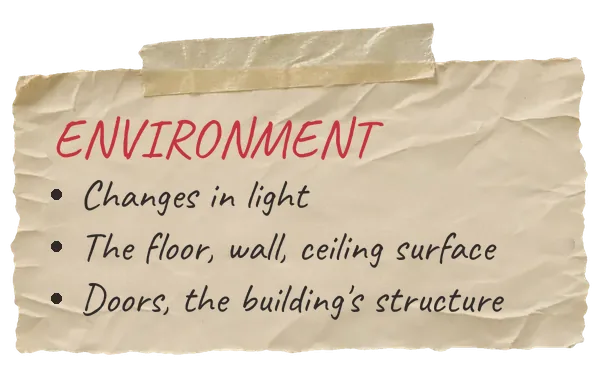
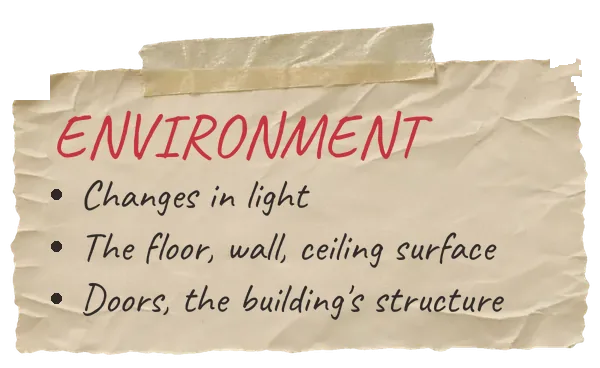
fix: 付箋の読めない時の文字表示・定義語の検査・見出しと紙の縁の手直し (#346)

diff --git a/src/components/ReportPanel.tsx b/src/components/ReportPanel.tsx
@@ -1,4 +1,4 @@
-import { RefObject, useEffect, useRef } from 'react'
+import { RefObject, useEffect, useRef, useState } from 'react'
 import { AnomalyCategory } from '../types/game'
 import { cx } from '../utils/cx'
 import { currentLanguage, type Language } from '../utils/language'
@@ -50,6 +50,44 @@ export const ReportButton = ({
     </div>
   </div>
 )
+
+/**
+ * The sticky note: a picture (#346). If the picture cannot be read (offline, 404) the same words are shown as plain
+ * visible text on a paper-coloured box, never a broken-image icon. The words for assistive technology are the sr-only
+ * span either way.
+ */
+const NoteImage = ({
+  note,
+  category,
+}: {
+  note: ReturnType<typeof reportNote>
+  category: AnomalyCategory
+}) => {
+  const [failed, setFailed] = useState(false)
+  return (
+    <span className="cat-note">
+      {failed ? (
+        <span className="cat-note-text" aria-hidden="true">
+          {note.lines.map(line => (
+            <span key={line}>{line}</span>
+          ))}
+        </span>
+      ) : (
+        <img
+          src={note.src}
+          width={note.width}
+          height={note.height}
+          alt=""
+          draggable={false}
+          onError={() => setFailed(true)}
+        />
+      )}
+      <span className="cat-sr-only" id={`catHint-${category}`}>
+        {note.text}
+      </span>
+    </span>
+  )
+}
 
 interface ReportDialogProps {
   /** The language of the notes (default: the browser's, decided once at start; the keys are always English). */
@@ -136,18 +174,7 @@ export const ReportDialog = ({
                   {category.toUpperCase()}
                 </button>
                 {/* The sticky note is a picture (#346); its words are read from the sr-only text. */}
-                <span className="cat-note">
-                  <img
-                    src={note.src}
-                    width={note.width}
-                    height={note.height}
-                    alt=""
-                    draggable={false}
-                  />
-                  <span className="cat-sr-only" id={`catHint-${category}`}>
-                    {note.text}
-                  </span>
-                </span>
+                <NoteImage note={note} category={category} />
               </div>
             )
           })}

diff --git a/src/components/ReportPanel.test.tsx b/src/components/ReportPanel.test.tsx
@@ -148,7 +148,7 @@ describe('ReportDialog', () => {
       Object: '物が出る、消える。物が変わる。床や壁、天井の物も。',
       Environment: '光の変化。床、壁、天井の面。扉や建物のつくり。',
       Person:
-        '人、人影、体の一部。人の痕跡。人の形（人形、絵、影）。動物は含まない。',
+        '人、人影、体の一部。人の痕跡。人の形(人形、絵、影)。動物は含まない。',
       Surreal: 'ありえないこと。映るはずのものが映らない。',
     }
     const CASES = [
@@ -183,6 +183,28 @@ describe('ReportDialog', () => {
         }
       )
     })
+
+    it.each(['ja', 'en'] as const)(
+      'when the picture cannot be read (%s) the same words show as visible text, no broken image',
+      language => {
+        const { dialog } = setupDialog(language)
+        const img = dialog.querySelector('img') as HTMLImageElement
+        const box = img.closest('.cat-note') as HTMLElement
+        fireEvent.error(img)
+        expect(box.querySelector('img')).toBeNull()
+        const text = box.querySelector('.cat-note-text') as HTMLElement
+        expect(text).not.toBeNull()
+        expect(text.textContent).toContain(
+          language === 'ja'
+            ? '映像そのものが乱れる'
+            : 'The whole picture glitches'
+        )
+        // the sr-only words stay, and the key still points at them
+        expect(
+          document.getElementById('catHint-Camera')?.textContent
+        ).toBeTruthy()
+      }
+    )
 
     it('follows the browser language by default and keeps the keys in English', () => {
       const lang = vi.spyOn(window.navigator, 'languages', 'get')

diff --git a/src/data/reportNotes.test.ts b/src/data/reportNotes.test.ts
@@ -86,6 +86,22 @@ describe('report notes table (#346)', () => {
     }
   })
 
+  it('keeps the words that the category definitions of prompts/README.md hinge on (both languages)', () => {
+    const words = (id: string, l: (typeof LANGS)[number]) => {
+      const n = REPORT_NOTE_TABLE.notes.find(x => x.id === id)
+      return n ? n[l].lines.join('\n') : ''
+    }
+    // person: animals are not people; object / environment: floor, wall, ceiling; camera: a surface across the view
+    expect(words('Person', 'ja')).toContain('動物は含まない')
+    expect(words('Person', 'en')).toContain('Not animals')
+    expect(words('Object', 'ja')).toContain('床や壁、天井')
+    expect(words('Environment', 'ja')).toContain('床、壁、天井')
+    expect(words('Object', 'en')).toMatch(/floor, wall, ceiling/i)
+    expect(words('Environment', 'en')).toMatch(/floor, wall, ceiling/i)
+    expect(words('Camera', 'ja')).toContain('横切る')
+    expect(words('Camera', 'en')).toContain('across the view')
+  })
+
   it('the notes are not preloaded: index.html names none of them (they load when the dialog opens)', () => {
     expect(readFileSync('index.html', 'utf8')).not.toContain('report-notes')
   })

diff --git a/src/styles/retro.css b/src/styles/retro.css
@@ -1357,6 +1357,26 @@
   height: auto;
 }
 
+/* the picture could not be read: the same words, plain, on a paper-coloured box */
+.cat-note-text {
+  display: block;
+  padding: 8px 8px 6px;
+  font-family: 'NoteYomogi', 'Caveat', 'Segoe Print', cursive;
+  font-size: 0.8rem;
+  line-height: 1.25;
+  color: var(--ink);
+  background: #e6d7a3;
+  border-radius: 1px 2px 2px 1px;
+}
+
+.cat-note-text > span {
+  display: block;
+}
+
+.cat-note-text > span::before {
+  content: '\2022\00a0';
+}
+
 .cat-sr-only {
   position: absolute;
   width: 1px;

diff --git a/src/data/reportNotes.ts b/src/data/reportNotes.ts
@@ -26,6 +26,8 @@ export interface ReportNote {
   height: number
   /** The words, read aloud (sr-only, `aria-describedby` of the key); the picture itself has `alt=""`. */
   text: string
+  /** The bullet lines (shown as plain text if the picture cannot be read). */
+  lines: string[]
 }
 
 const sentence = (lines: string[], language: Language): string =>
@@ -43,6 +45,7 @@ export const reportNote = (
     width: d.width,
     height: d.height,
     text: sentence(d.lines, language),
+    lines: d.lines,
   }
 }
 

diff --git a/scripts/report-notes.py b/scripts/report-notes.py
@@ -53,7 +53,7 @@ def paper_without_ink(name):
     ink = ((lum < 125) | red) & (alpha > 200)
     mask = Image.fromarray((ink * 255).astype(np.uint8)).filter(ImageFilter.MaxFilter(9))
     ink = np.asarray(mask) > 0
-    clean = (~ink).astype(np.float32)
+    clean = (~ink).astype(np.float32) * (alpha / 255.0)  # transparent pixels carry no colour: they must not darken the estimate
     out = np.empty_like(rgb)
     for c in range(3):
         num = gaussian_filter(rgb[..., c] * clean, 9)
@@ -65,6 +65,13 @@ def paper_without_ink(name):
     grain = rng.normal(0, 2.2, size=lum.shape).astype(np.float32)
     for c in range(3):
         out[..., c] = np.where(ink, out[..., c] + grain, out[..., c])
+    # dark specks left on the torn edge at the top corners of some title notes: made transparent (corners only)
+    corner = np.zeros(lum.shape, bool)
+    corner[45:100, :50] = True
+    corner[45:100, 550:] = True
+    speck = corner & (lum < 185) & (alpha > 0)
+    speck = np.asarray(Image.fromarray((speck * 255).astype(np.uint8)).filter(ImageFilter.MaxFilter(5))) > 0
+    alpha = np.where(speck & corner, 0, alpha)
     res = np.dstack([np.clip(out, 0, 255), alpha]).astype(np.uint8)
     return Image.fromarray(res, "RGBA")
 
@@ -72,12 +79,13 @@ def paper_without_ink(name):
 def cut_to_height(paper, h):
     """Fit the paper to `h` rows: the tape (top) and the torn edge (bottom) stay whole, the middle is squeezed."""
     top = paper.crop((0, 0, W, TOP))
-    mid = paper.crop((0, TOP, W, SRC_H - BOTTOM)).resize((W, h - TOP - BOTTOM), Image.LANCZOS)
+    # premultiplied alpha while resizing, or the semi-transparent edge pixels turn into grey specks
+    mid = paper.crop((0, TOP, W, SRC_H - BOTTOM)).convert("RGBa").resize((W, h - TOP - BOTTOM), Image.LANCZOS).convert("RGBA")
     bottom = paper.crop((0, SRC_H - BOTTOM, W, SRC_H))
     out = Image.new("RGBA", (W, h))
-    out.paste(top, (0, 0))
-    out.paste(mid, (0, TOP))
-    out.paste(bottom, (0, h - BOTTOM))
+    out.alpha_composite(top, (0, 0))
+    out.alpha_composite(mid, (0, TOP))
+    out.alpha_composite(bottom, (0, h - BOTTOM))
     return out
 
 
@@ -128,8 +136,8 @@ def main():
     table = doc["notes"]
     OUT.mkdir(parents=True, exist_ok=True)
     spec = {
-        "ja": dict(head=fontdir / "ZenKurenaido-Regular.ttf", body=fontdir / "Yomogi-Regular.ttf", size=44, head_size=48),
-        "en": dict(head=tmp, body=tmp, size=50, head_size=54),
+        "ja": dict(head=fontdir / "ZenKurenaido-Regular.ttf", body=fontdir / "Yomogi-Regular.ttf", size=44, head_size=58),
+        "en": dict(head=tmp, body=tmp, size=50, head_size=62),
     }
     papers = {}
     for lang, sp in spec.items():

diff --git a/prompts/README.md b/prompts/README.md
@@ -138,8 +138,8 @@ planned の画像案は制作済みの後ろ、画像以外の異変はその後
 ゲームの report 選択肢に対応:
 
 - `camera` — そのカメラの画面全体のおかしくなり方（映像の乱れ）。画像差分(overlay)では主カテゴリにせず、画像以外の異変（`anomaly_type: feed_glitch`）の `category` の先頭に使う。`kind: image` の entry は `category` の先頭に camera を置けない（ビルドが失敗する）。ただし画面を横断する面の置換・変化（床全面・壁全面・天井全面・床の一帯の全幅が別のものに置き換わる／変わる）の画像異変は、プレイヤーが「画面全体が変」と感じて Camera を押しやすいので、かすり正解として2つ目以降に `camera` を許す（#347）。物の変化は `object`。局所の変化（カーテン・水たまり・ガラスの光）と、物の散らばり（折り鶴・靴の列）は含めない
-- `object` — 物の出現・消失・変化（付箋: a thing appears, vanishes or changes）
-- `environment` — 光、構造、雰囲気、床・壁・天井の面（付箋: light, or the floor, wall or ceiling surface）
+- `object` — 物の出現・消失・変化（付箋: 物が出る、消える／物が変わる／床や壁、天井の物も）
+- `environment` — 光、構造、雰囲気、床・壁・天井の面（付箋: 光の変化／床、壁、天井の面／扉や建物のつくり）
 - `person` — 人間の形をしたもの（人・人影・体の一部・足跡などの痕跡・人形・マネキン・案山子・てるてる坊主・ロボット（人型）・像・ピクトグラム・シルエット・人の絵・人の顔写真・ポスターの人物）。素材や大きさによらない。**人間以外の動物（猫・鳥・ネズミ・ヤモリ・蜘蛛・金魚など）は `person` ではなく `object`**（kako-jun 2026-11-12「人間以外の動物はパーソンじゃない」「人間の形をしていたらパーソンだ」）
 - `surreal` — 現実崩壊
 
@@ -150,7 +150,7 @@ planned の画像案は制作済みの後ろ、画像以外の異変はその後
 - 光や、床・壁・天井の面 → `environment`
 - あり得ない現象 → `surreal`
 
-各カテゴリの正解は、そのボタンの付箋の説明に当てはまること（kako-jun 2026-11-12「どこになにがある、のどこでも、なにでも、正解は正解だろう」）。付箋の文言は `src/data/reportNotes.json`（日英の箇条書き。画像は `scripts/report-notes.py` がそこから描く、#346）。**付箋の内容は、この節のカテゴリ定義と同じに保つ**（定義を変えたら JSON を直して画像を作り直す）。例: Object「物が出る、消える／物が変わる／床や壁、天井の物も」、Environment「光の変化／床、壁、天井の面／扉や建物のつくり」。したがって**壁・床・天井のどこにある物でも、どんな物（動物を含む）でも、`object` と `environment` の両方が正解**: 壁の物（貼られた・掛かった・取り付けられた・寄りかかった）、床の物（置かれた・落ちた・散らばった・並んだ・据え置きの鉢植えや自立看板の変化）、天井の物（取り付けられた・吊るされた・灯具）。主カテゴリ（先頭）は変えず、不足側を後ろに足す（物が主なら `environment`、`environment` が主で物が主役なら `object`）。動物に足さないのは `person` だけ（動物は `object` と、いる場所の `environment`）。ガラス面に貼った物・店舗ガラスに付いた装飾（AR-02-wall-bird-gone・AR-02-wall-bird-triplet など）も含む。台・棚・テーブル・カウンター・容器の上の物も含む（台・棚は床・壁の近くにあり、物はその空間にある）。対象外（付箋に当てはまらない）: 空中に浮く物（どの面にも接しない。煙など）、「ガラスの向こう」（窓の外・内側の店内・反射）、光や影だけの変化、面そのものの状態（床タイル1枚の色・壁一面の置換。物でなく面の変化）。どの異変に足したかは台帳が真実。
+各カテゴリの正解は、そのボタンの付箋の説明に当てはまること（kako-jun 2026-11-12「どこになにがある、のどこでも、なにでも、正解は正解だろう」）。付箋の文言は `src/data/reportNotes.json`（日英の箇条書き。画像は `scripts/report-notes.py` がそこから描く、#346）。**付箋の内容は、この節のカテゴリ定義と同じに保つ**（定義上の語: person の「動物は含まない」、object・environment の「床、壁、天井」、camera の「横切る」は、`reportNotes.test.ts` が日英の JSON にあることを検査する）（定義を変えたら JSON を直して画像を作り直す）。例: Object「物が出る、消える／物が変わる／床や壁、天井の物も」、Environment「光の変化／床、壁、天井の面／扉や建物のつくり」。したがって**壁・床・天井のどこにある物でも、どんな物（動物を含む）でも、`object` と `environment` の両方が正解**: 壁の物（貼られた・掛かった・取り付けられた・寄りかかった）、床の物（置かれた・落ちた・散らばった・並んだ・据え置きの鉢植えや自立看板の変化）、天井の物（取り付けられた・吊るされた・灯具）。主カテゴリ（先頭）は変えず、不足側を後ろに足す（物が主なら `environment`、`environment` が主で物が主役なら `object`）。動物に足さないのは `person` だけ（動物は `object` と、いる場所の `environment`）。ガラス面に貼った物・店舗ガラスに付いた装飾（AR-02-wall-bird-gone・AR-02-wall-bird-triplet など）も含む。台・棚・テーブル・カウンター・容器の上の物も含む（台・棚は床・壁の近くにあり、物はその空間にある）。対象外（付箋に当てはまらない）: 空中に浮く物（どの面にも接しない。煙など）、「ガラスの向こう」（窓の外・内側の店内・反射）、光や影だけの変化、面そのものの状態（床タイル1枚の色・壁一面の置換。物でなく面の変化）。どの異変に足したかは台帳が真実。
 
 `category` が配列のとき（#347。別キーは設けない。異変の種類を表す `category` そのものが文字列または配列）: 割れる異変・かすっても正解にしたい異変は、`category` を YAML のシーケンスにする（例: `category: ['environment', 'surreal']`）。先頭が主カテゴリ（フィードバックの `CONFIRMED — …`・出現の抽選・カテゴリ別の集計・`feed_glitch` の判定に使う）、2つ目以降は「かすり」で正解になる。プレイヤーが配列のどれを選んでも正解。単一なら文字列のままでよい（1要素の配列と同じ意味）。3つ以上でもよい。要素の重複は不可。各要素は有効なカテゴリ（小文字: `camera` / `object` / `environment` / `person` / `surreal`）でなければビルドが失敗し、エントリ id が表示される。`kind: image` は先頭に camera 不可、2つ目以降は可。`feed_glitch` は先頭が camera。方針は kako-jun の指示 2026-11-11「かすってる程度でも正解にすべき」。基準は下の「かすっても正解」の類型。類型に当たらない異変は配列にしなくてよい。
 
